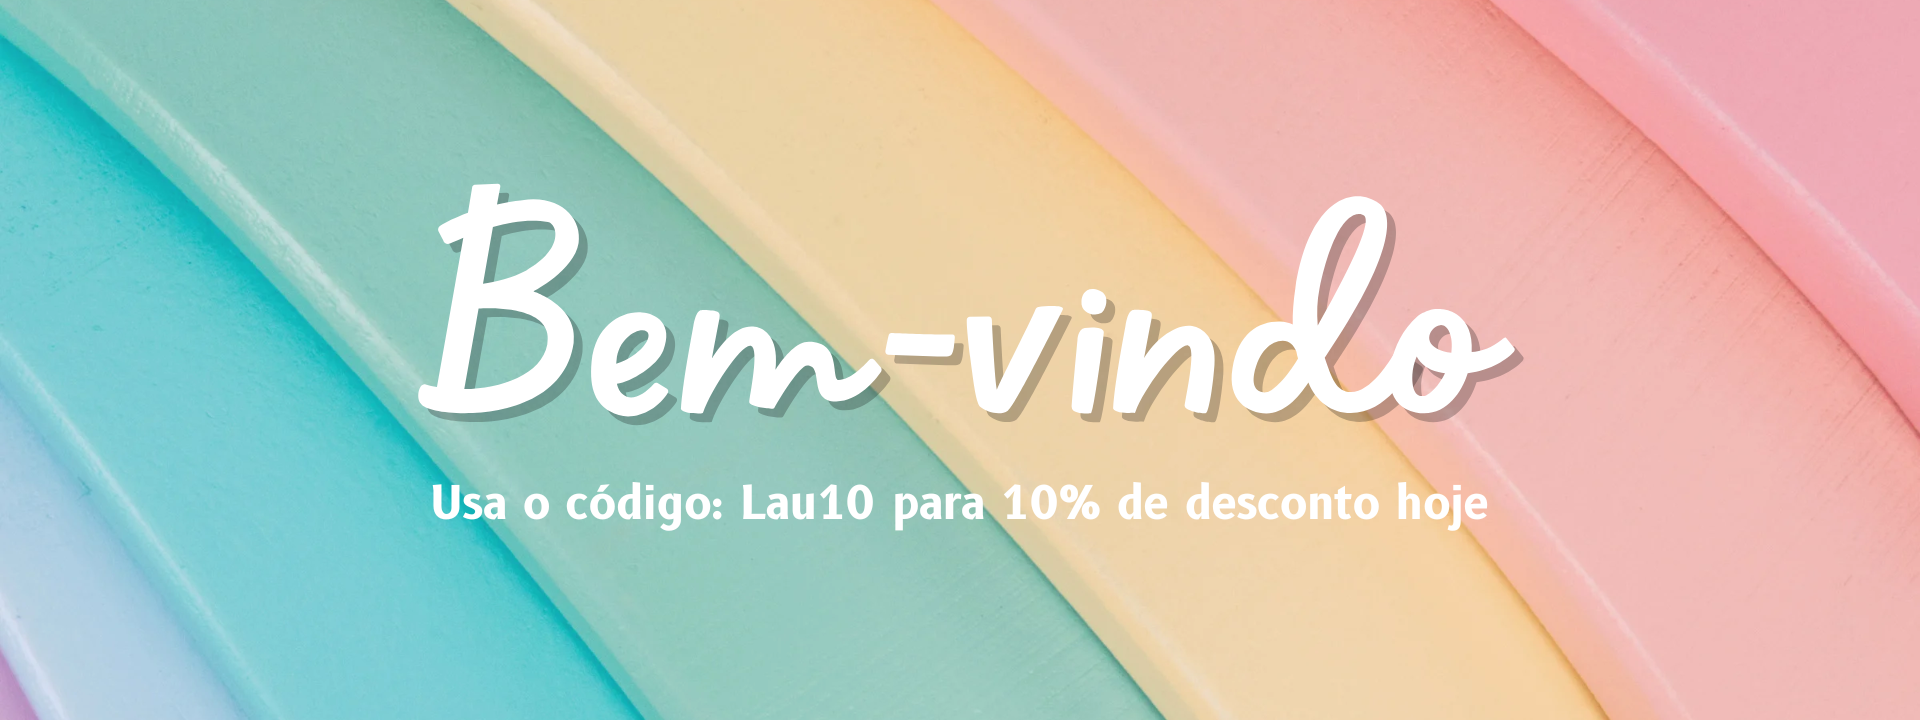
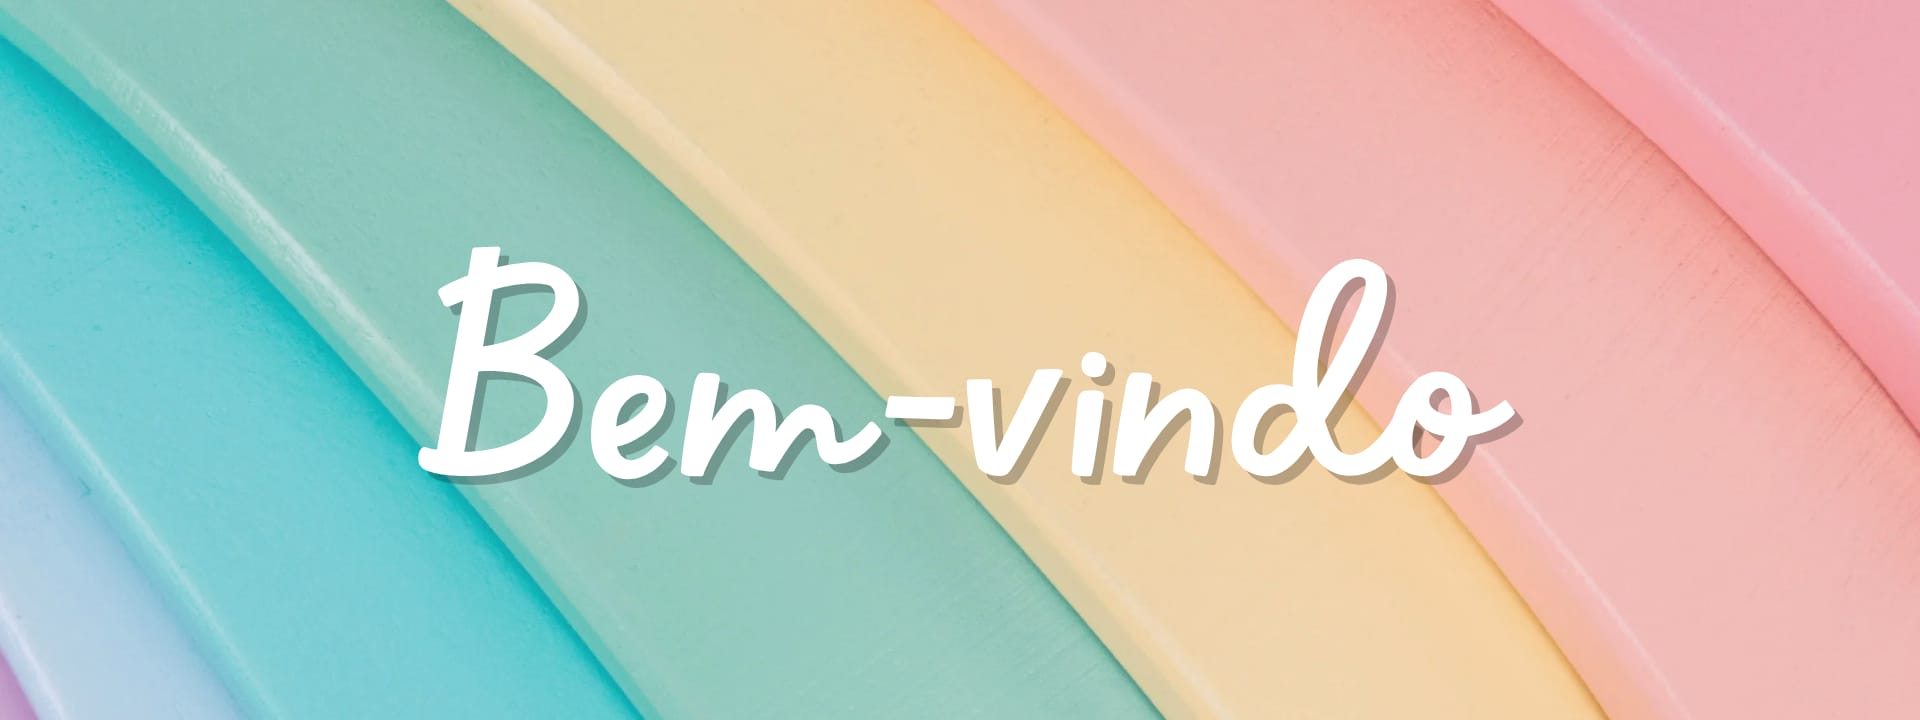
.

Changed region(s): [[0.2188, 0.2444, 0.8125, 0.7333]]

diff --git a/javascript.js b/javascript.js
@@ -1,5 +1,5 @@
 const codigos_desconto = [
-    { code: "LAU10", discount: 10 },
+    //{ code: "LAU10", discount: 10 },
 ]
 
 let desconto_aplicado = false;
